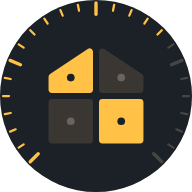
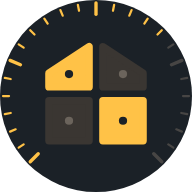
Icône Windows : maison plus grosse et légèrement remontée
Claude-Session: https://claude.ai/code/session_01UzEPtZNZEKVBjzia6zzU1u

Changed region(s): [[0.2188, 0.2188, 0.7812, 0.7812], [0.5938, 0.5938, 0.6875, 0.6562], [0.3438, 0.5938, 0.4062, 0.6562]]

diff --git a/sw.js b/sw.js
@@ -1,5 +1,5 @@
 /* Réseau d'abord (toujours revalidé : le cache HTTP de GitHub Pages dure 10 min) ; copie locale si hors ligne. */
-const C = 'maxisk-v8';
+const C = 'maxisk-v9';
 self.addEventListener('install', () => self.skipWaiting());
 self.addEventListener('activate', e => e.waitUntil(caches.keys().then(ks => Promise.all(ks.filter(k => k.startsWith('maxisk-') && k !== C).map(k => caches.delete(k)))).then(() => self.clients.claim())));
 self.addEventListener('fetch', e => {
